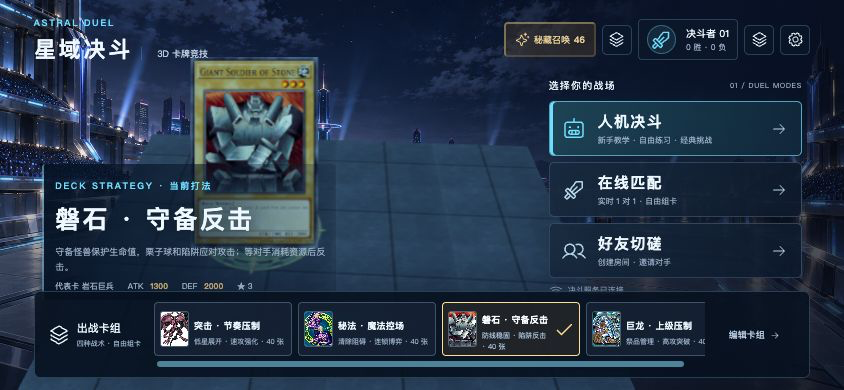
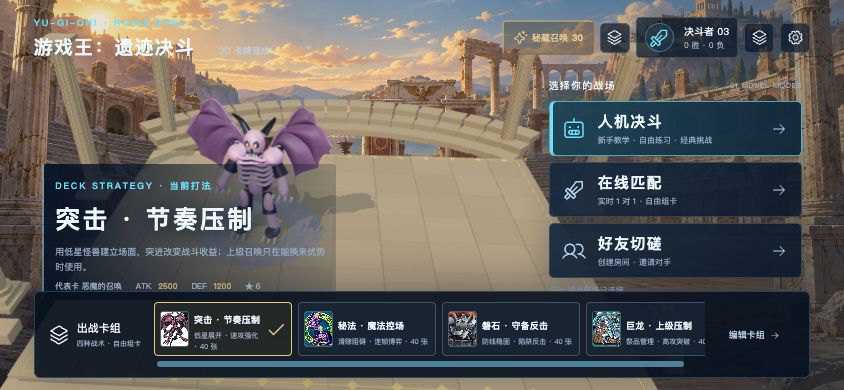
Rename showcase to Yu-Gi-Oh! Ruins Duel

diff --git a/assets/screenshots/astral-duel/SOURCE.md b/assets/screenshots/astral-duel/SOURCE.md
@@ -1,4 +1,4 @@
-# Astral Duel / 星域决斗 — creator and verification record
+# Yu-Gi-Oh! Ruins Duel / 游戏王：遗迹决斗 — creator and verification record
 
 ## Creator and model attribution / 作者与模型参与
 
@@ -8,6 +8,8 @@
 - **GPT-6 Astra 的具体参与仍待作者确认。** 已确认上述 Codex 多轮开发工作，不能仅凭 Codex 工具名称断言使用了 GPT-6 Astra；本投稿保持草稿。
 
 ## Public release and scope / 公开试玩与范围
+
+Display name updated on 2026-10-10 to **游戏王：遗迹决斗 / Yu-Gi-Oh! Ruins Duel**. Existing repository names, Toy URL/slug and browser save keys are preserved; historical screenshots can show the earlier title. The rename preview (https://www.bilibili.com/toy/preview/preview_Bl19yMGw/index.html) visibly shows the new title and retained browser collection. Source revision `30749a3f32948367c948ade0c64a561cddf2d0be` passed 65 game tests, production builds, runtime integrity and Toy preflight; the 27 catalogue tests passed. The title fits desktop and 844×390 mobile landscape without overlapping header controls. New title and an actual renamed-game screenshot poster were submitted to Toy; CLI receipt status: **auditing**, submission preview: https://www.bilibili.com/toy/preview/preview_SCDnx23l/index.html . The existing Roman/monster public version remains available while the rename is reviewed.
 
 - [Play on Toy](https://www.bilibili.com/toy/astral-duel-game/index.html): Toy ID `42086522945536`, visibility PUBLIC, previously published on 2026-10-09. The Roman arena / volumetric-monster update was previewed and exercised in Chrome, then submitted on 2026-10-10. Latest CLI status: **published**; the formal URL stays unchanged. The formal Toy page was opened in Chrome after approval and the Roman arena / entity-monster battle was visibly verified. Final tested preview: https://www.bilibili.com/toy/preview/preview_BTpeQTB3/index.html .
 - Free browser game with a Chinese interface, WebGL, mouse/touch controls, and no mandatory game login or installation. Progress is saved in the current browser.
@@ -22,16 +24,16 @@ Captured by the creator's Codex session on **2026-10-09 and 2026-10-10**, withou
 | File | Size | Version and visible behavior |
 | --- | --- | --- |
 | [gameplay.png](gameplay.png) | 1152×638 | 2026-10-10 final Toy platform preview: Roman ruins, volumetric Luster Dragon / Summoned Skull and Mirror Force response. Resized from the intact 1501×832 capture to keep the README cover under 1 MiB. |
-| [strategies.png](strategies.png) | 1280×720 | Previous four-strategy Toy build: lobby with four preset strategies. |
+| [strategies.png](strategies.png) | 1501×832 | 2026-10-10 local full-server rename build: 游戏王：遗迹决斗 lobby with four preset strategies. |
 | [revival-mobile.png](revival-mobile.png) | 844×390 | Local full-server build: graveyard-revival challenge and card inspector. |
 | [summon-mobile.png](summon-mobile.png) | 844×390 | Local full-server build: Summoned Skull's purple summon effect. |
-| [strategies-mobile.png](strategies-mobile.png) | 844×390 | Local full-server build: preset choice on a phone-sized landscape viewport. |
+| [strategies-mobile.png](strategies-mobile.png) | 844×390 | 2026-10-10 local full-server rename build: full new title and preset choice on a phone-sized landscape viewport. |
 | [battle-mobile.png](battle-mobile.png) | 844×390 | 2026-10-10 final Toy platform preview: entity monsters, ruin arena and 44px response controls. |
 | [kuriboh-model.png](kuriboh-model.png) | 1280×720 | 2026-10-10 local full-server build: actual rotatable Kuriboh mesh, instanced fur, eyes and claws. |
 | [roman-kuriboh.png](roman-kuriboh.png) | 1280×720 | 2026-10-10 local full-server build after dragging Kuriboh out of hand and summoning it on the stone arena. |
 | [drag-mobile.png](drag-mobile.png) | 844×390 | Latest local build: keyboard pickup and highlighted legal defense drop zones. |
 
-The older revival, summon and preset screenshots document source revision `a5dc6fa`; drag-mobile documents `909d5e5`; the new Roman arena and model captures document the 2026-10-10 update. The local and Toy versions share the UI and use different connection adapters. The table identifies each capture environment; no screenshot is a claim of live multiplayer on Toy.
+The older revival and summon screenshots document source revision `a5dc6fa`; the renamed lobby screenshots document `30749a3`; drag-mobile documents `909d5e5`; the new Roman arena and model captures document the 2026-10-10 update. The local and Toy versions share the UI and use different connection adapters. The table identifies each capture environment; no screenshot is a claim of live multiplayer on Toy.
 
 ## Verification / 验证记录
 

diff --git a/README.md b/README.md
@@ -503,7 +503,7 @@ Logic puzzles, physics challenges, word games, and clever little mechanisms.
 
 Tower defense, strategic card games, management games, building, and simulation sandboxes.
 
-- **[Astral Duel / 星域决斗](https://www.bilibili.com/toy/astral-duel-game/index.html)** — Choose tempo, spell control, defense/counterplay or tribute pressure; build a 40-card deck, discover cards through a 3D summoning ritual, and drag cards into nostalgic Roman ruins where 18 volumetric monsters animate in guided Yu-Gi-Oh-inspired AI duels.
+- **[Yu-Gi-Oh! Ruins Duel / 游戏王：遗迹决斗](https://www.bilibili.com/toy/astral-duel-game/index.html)** — Choose tempo, spell control, defense/counterplay or tribute pressure; build a 40-card deck, discover cards through a 3D summoning ritual, and drag cards into nostalgic Roman ruins where 18 volumetric monsters animate in guided Yu-Gi-Oh-inspired AI duels.
   - Creator: [Ryan-fm](https://github.com/Ryan-fm).
   - Platform: WebGL browser; Chinese interface, mouse or touch. Free, no game login. Toy release supports AI duels, summoning and deck editing with local browser saves; online PK requires the separate full-version server.
   - Model participation: [Development and verification notes](assets/screenshots/astral-duel/SOURCE.md) — Iterative Codex collaboration; exact GPT-6 Astra attribution awaits creator confirmation. Unofficial fan prototype using third-party card artwork.

diff --git a/README.zh-CN.md b/README.zh-CN.md
@@ -503,7 +503,7 @@
 
 塔防、卡牌策略、经营建造与模拟沙盒。
 
-- **[星域决斗 / Astral Duel](https://www.bilibili.com/toy/astral-duel-game/index.html)** — 选择节奏突击、魔法控场、守备反击或上级压制四种路线，编成 40 张卡组；通过召唤发现新卡，将手牌拖入怀旧古罗马遗迹，在 18 种实体 3D 怪兽的人机决斗中练习攻击、连锁与墓地复活。
+- **[游戏王：遗迹决斗 / Yu-Gi-Oh! Ruins Duel](https://www.bilibili.com/toy/astral-duel-game/index.html)** — 选择节奏突击、魔法控场、守备反击或上级压制四种路线，编成 40 张卡组；通过召唤发现新卡，将手牌拖入怀旧古罗马遗迹，在 18 种实体 3D 怪兽的人机决斗中练习攻击、连锁与墓地复活。
   - 作者：[Ryan-fm](https://github.com/Ryan-fm)。
   - 平台：支持 WebGL 的浏览器，中文界面，鼠标或触控；免费，无需游戏账号。Toy 发布版支持人机、召唤和组卡，进度保存在当前浏览器；在线 PK 需要单独部署完整版服务器。
   - 模型参与：[开发与核验记录](assets/screenshots/astral-duel/SOURCE.md) — 通过多轮 Codex 协作开发；具体 GPT-6 Astra 归因等待创作者确认。非官方同人原型，包含第三方卡牌美术。
